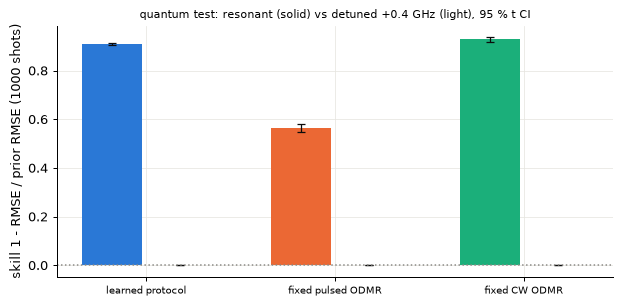
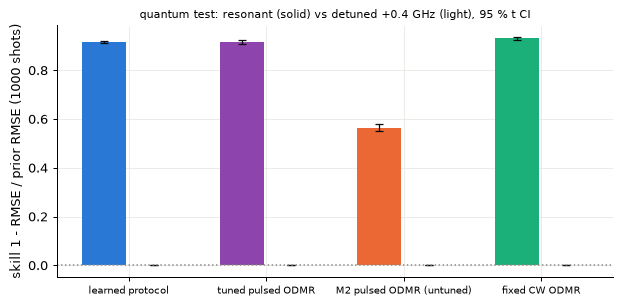
Milestone 4 report, Task 1: rerun with a tuned pulsed baseline, learned protocol started from it, equal-wall-time, equal-area and retrained timing probes; interpretation rewritten (learning ties the tuned pulse at 1000 shots)
Claude-Session: https://claude.ai/code/session_011moV3EPNNknRWZQ686AChh

diff --git a/docs/results/m4-learned-sensor.md b/docs/results/m4-learned-sensor.md
@@ -1,93 +1,148 @@
 # Milestone 4, Task 1 re-run: a learned sensor protocol for the hidden field
 
-**Task 1 with a learned sensor protocol**: the encoder chooses the pulses of every measurement point, trained end to end with a CNN decoder through the differentiable surrogate, and compared with milestone 2's fixed CW and pulsed ODMR on the same frequency grid, shots and decoder recipe. Simulation only; no claim of quantum advantage: a gap only says that the performance depends on driving the spin resonance.
+**Task 1 with a learned sensor protocol**: the encoder chooses the pulses of every measurement point, trained end to end with a CNN decoder through the differentiable surrogate, and compared with fixed protocols on the same frequency grid, shots and decoder recipe: a pulsed ODMR sweep whose pulse is tuned for this grid, milestone 2's untuned pulsed ODMR and fixed CW ODMR. Simulation only; no claim of quantum advantage: a gap only says that the performance depends on driving the spin resonance.
 
 ## Result
 
 RMS error of the folded field (|B| 0.5-3 mT, any direction) with 40 points, mean over 5 seeds [95 % Student-t CI]:
 
-| protocol | resonant, 1000 shots/point | detuned | gap (detuned - resonant) | resonant, 5000 shots/point (= M2's total shots) |
-| --- | --- | --- | --- | --- |
-| learned protocol | 75.7 [71.8, 79.6] | 833 [822, 844] | 758 [744, 771] | 47.1 [45.1, 49.1] |
-| fixed pulsed ODMR | 364 [348, 379] | 834 [823, 844] | 470 [459, 481] | 219 [203, 235] |
-| fixed CW ODMR | 60.1 [50.8, 69.5] | 834 [823, 844] | 773 [767, 780] | 37.6 [32.7, 42.5] |
+| protocol | shot (ns) | resonant, 1000 shots/point | detuned | gap (detuned - resonant) | resonant, 5000 shots/point (= M2's total shots) |
+| --- | --- | --- | --- | --- | --- |
+| learned protocol | 3500 | 69.1 [66.6, 71.7] | 834 [823, 844] | 764 [752, 777] | 42 [40.1, 43.9] |
+| tuned pulsed ODMR | 3200 | 69.7 [63.2, 76.2] | 834 [823, 844] | 764 [754, 773] | 31.4 [27.5, 35.2] |
+| M2 pulsed ODMR (untuned) | 3410 | 364 [350, 378] | 834 [823, 844] | 470 [458, 482] | 219 [201, 236] |
+| fixed CW ODMR | 3000 | 57.2 [51.9, 62.5] | 833 [823, 844] | 776 [771, 782] | 37.4 [33.5, 41.2] |
 
-- Learned vs fixed pulsed (its starting point), paired difference pulsed - learned at 1000 shots: 288 [272, 304] uT; learned vs CW, CW - learned: -15.6 [-27, -4.13] uT.
+- Tuned pulse (validation sweep below): amplitude 0.6, 100 ns (nominal area 0.98 pi); milestone 2's: amplitude 0.2, 310 ns.
+- Paired differences at 1000 shots/point (positive = the second is better): tuned - learned 0.536 [-8.53, 9.61] uT; CW - learned -12 [-18.8, -5.15] uT; CW - tuned -12.5 [-19.3, -5.76] uT; untuned - tuned 294 [281, 307] uT. At 5000 shots: tuned - learned -10.6 [-15.4, -5.87] uT; CW - learned -4.63 [-9.25, -0.0188] uT.
 - Context: milestone 2's CNN on its 200-point sweeps (1 MHz steps, 6000 training steps) reached 11.9 uT (CW) and 26.4 uT (pulsed) at 1000 shots per point; at equal total shots (5000 per point here) compare with the last column.
-- **Quantum test**: with every MW frequency shifted by 400 MHz (no line within 217 MHz) every protocol falls to the prior; the gaps are learned significant, pulsed significant, cw significant.
+- **Quantum test**: with every MW frequency shifted by 400 MHz (no line within 216 MHz) every protocol falls to the prior; the gaps are learned significant, tuned significant, pulsed significant, cw significant.
 - Timing: the learned strategy uses microsecond-scale (Rabi-scale) timing: **yes** (details below).
 
 ## Interpretation
 
-- **The encoder redesigned the pulsed sensor.** Starting from milestone 2's pulsed ODMR (one 310 ns pi pulse at
-  amplitude 0.2 per grid point), end-to-end training cut the field error 4.8x at equal points, shots and decoder
-  recipe (75.7 vs 364 uT at 1000 shots/point). It did so with spin physics a person would also try: about twice the
-  drive amplitude (0.43 vs 0.2, power-broadened excitation that covers the 5 MHz grid spacing instead of missing
-  lines between points), two segments per point split by ~5 MHz (a composite pulse that covers two neighbouring
-  frequencies, with total areas around 2 pi), and it switched off the points the field prior never needs: segments
-  more than 88 MHz from D (beyond every line of |B| <= 3 mT) kept a median area of 0.15 pi against 0.92 pi
-  elsewhere, and half of those points are nearly off (total area < 0.3 pi).
-- **It depends on Rabi-scale timing and on coherent phases.** With the decoder frozen, shifting every duration by
-  20 ns costs +49 % in error and by 50 ns +330 %; the fixed pulsed protocol, whose pi pulse sits at the flat top of a
-  Rabi oscillation, loses only 1-3 %. Scrambling the phases of the two segments doubles the error: the two pulses
-  act coherently on lines they both reach.
-- **CW is still better at high shots, and the learned protocol wins at low shots.** At this 40-point budget the
-  fixed CW sweep reaches 60 uT at 1000 shots (learned minus CW: +15.6 [4.1, 27] uT) and stays ahead up to 10^4
-  shots. The learned protocol is better at <= 100 shots (292 vs 331 uT at 100) and equal at 300. CW integrates for
-  the whole 3 us of each shot; the pulsed family reads 600 ns per shot, which no choice of pulses can change. The
-  learned protocol only controls the MW (laser timing fixed), so it could not discover CW-like continuous readout.
-  Giving the encoder the laser too is the obvious next step.
-- **Quantum test:** detuned 400 MHz, every protocol (learned included, trained detuned) falls to the prior, 833 uT;
-  the gaps are 758 [744, 771] uT (learned), 470 (pulsed), 773 (CW).
-- The QuTiP reference reproduces the learned protocol's features to 6e-5 of the peak; noisy RMSE identical
-  (102.0 uT on two fields).
+- **Tuning the fixed pulse explains the earlier "4.8x".** Milestone 2's pi pulse (amplitude 0.2, 310 ns) was set for
+  a 1 MHz grid; on this 5 MHz grid its narrow excitation misses lines between points. A validation sweep of the
+  pulse amplitude alone (each with its nominal pi pulse) cuts the error 5.2x (364 -> 69.7 uT at 1000 shots; best
+  amplitude 0.6, 100 ns). The previous version of this report credited that gain to learning; it was a
+  one-parameter retune.
+- **Learning from the tuned pulse adds nothing at the headline and changes the trade-off across shots.** Started at
+  the tuned pulse and trained for 2000 steps, the learned protocol ties it at 1000 shots (tuned - learned 0.5
+  [-8.5, 9.6] uT), is clearly better at low shots (272 vs 414 uT at 100, 130 vs 210 at 300) and clearly worse at
+  high shots (42.0 vs 31.4 uT at 5000: tuned - learned -10.6 [-15.4, -5.9]). Phase 1 samples shots
+  log-uniformly over 10-10^4, so most of its training weight sits at the low-shot end, where it wins. What it
+  changed is spin physics a person would also try: a stronger, shorter, slightly under-pi pulse (first segment
+  median amplitude 0.93, 60 ns, 0.81 pi), per-point frequency offsets of a few MHz, the second segment left
+  essentially off (median amplitude 0.03, area 0.01 pi; the "two frequencies" fraction below counts it as on), and
+  points beyond every line of |B| <= 3 mT turned down (median 0.30 pi per point more than 88 MHz from D vs 0.84 pi
+  elsewhere). Stronger drive broadens the excitation, which helps coverage at few shots and blurs line positions
+  at many.
+- **CW vs pulsed.** At 1000 shots per point fixed CW is best (57.2 uT; CW - learned -12.0 [-18.8, -5.2], CW -
+  tuned -12.5 [-19.3, -5.8]). At 5000 shots the tuned pulse beats CW (31.4 vs 37.4 uT), and it still does at equal
+  wall time per point (30.5 vs 36.4 uT at 17.5 ms; CW's 3000 ns shots are 6-14 % shorter than the pulsed and learned
+  shots, which the equal-time table corrects for). So neither family wins everywhere; the earlier claim that no
+  choice of pulses can catch CW was wrong. The learned protocol only controls the MW (laser timing fixed).
+- **Timing: it relies on pulse area (the Rabi rotation angle), like the tuned pulse.** Shifting every duration by
+  50 ns raises the learned error 12.6-fold with the CNN frozen and 6.4-fold with a CNN retrained on the shifted
+  protocol; the tuned pulse loses less (5.2-fold frozen, 3.3-fold retrained) because its pulse is longer relative to
+  the shift. Making the same area change through the amplitude, durations kept, costs as much or more (learned +12.8
+  vs +11.6 at +-50 ns), so these probes measure reliance on pulse area on the Rabi scale, not on timing as such.
+  With its second segment off, the learned protocol no longer uses coherent phases between segments (scrambling
+  them costs nothing).
+- **Quantum test:** detuned 400 MHz, every protocol (learned included, trained detuned) falls to the prior, ~834
+  uT; gaps 764 [752, 777] uT (learned), 764 [754, 773] (tuned), 470 (untuned), 776 (CW).
+- The QuTiP reference reproduces the learned protocol's features to 6e-5 of the peak; noisy RMSE identical (70.7
+  uT on two fields).
+
+## Equal wall time per point
+
+The protocols' shots differ in length (column `shot (ns)` above; CW counts photons for its whole shot, the pulsed and learned protocols for their 600 ns readout). RMSE at equal wall time per point, the learned protocol's shots converted by shot length, resonant:
+
+| wall time per point (us) | learned protocol | tuned pulsed ODMR | M2 pulsed ODMR (untuned) | fixed CW ODMR |
+| --- | --- | --- | --- | --- |
+| 3500 | 69.1 [66.6, 71.7] (1000 shots) | 67 [63.3, 70.8] (1094 shots) | 354 [338, 370] (1026 shots) | 55 [49.8, 60.3] (1167 shots) |
+| 17500 | 42 [40.1, 43.9] (5000 shots) | 30.5 [28.6, 32.3] (5469 shots) | 217 [208, 227] (5132 shots) | 36.4 [33.3, 39.4] (5833 shots) |
+
+## Tuning the fixed pulsed baseline
+
+Seed 0, its train / validation fields (test fields unseen), the CNN recipe below, validation RMSE at 1000 shots/point. Stage 1: amplitudes with their nominal pi pulse; stage 2: pulse areas at the best amplitude.
+
+| stage | amplitude | pulse (ns) | nominal area (pi) | validation RMSE (uT) |
+| --- | --- | --- | --- | --- |
+| amplitude | 0.2 | 310 | 1.01 | 372.4 |
+| amplitude | 0.3 | 200 | 0.98 | 158.0 |
+| amplitude | 0.4 | 150 | 0.98 | 82.3 |
+| amplitude | 0.5 | 120 | 0.98 | 64.1 |
+| amplitude | 0.6 | 100 | 0.98 | 58.1 |
+| amplitude | 0.8 | 80 | 1.05 | 64.8 |
+| amplitude | 1 | 60 | 0.98 | 73.6 |
+| area | 0.6 | 60 | 0.59 | 110.2 |
+| area | 0.6 | 80 | 0.78 | 68.2 |
+| area | 0.6 | 120 | 1.18 | 93.8 |
+| area | 0.6 | 150 | 1.47 | 268.8 |
 
 ## Protocols and training
 
-- Grid: 40 points, 5 MHz apart over 2.77-2.97 GHz. Every point: init laser 1500 ns, dark 1000 ns, MW, readout 600 ns; features: readout counts in 100 ns windows (6 per point; the fixed pulsed protocol's 10 ns bins summed into the same windows); CW: one steady-state count per 3000 ns shot.
-- Learned protocol: per point 2 segments in 200 ns slots (amplitude 0-1, phase, frequency within +-7.5 MHz of the point's grid frequency, duration 0-200 ns on the grid); initialised at the fixed pulsed protocol (amplitude 0.2, 310.0 ns). Phase 1: 1000 Adam steps, 16 fresh fields of one nuisance draw per step, Gaussian shot noise (shots log-uniform [10, 10000]), 8 uniform quadrature nodes. Phase 2 and the fixed protocols: banks with milestone 2's numerics (32 uniform nodes, spacing 2.0), 3000 / 512 / 1000 fields per seed, CNN 2500 steps with Poisson noise at shots 10-10000.
-- Wall time: phase 1 81 min, banks 35 min, CNNs 33 min, timing probes 6.1 min.
+- Grid: 40 points, 5 MHz apart over 2.77-2.97 GHz. Every point: init laser 1500 ns, dark 1000 ns, MW, readout 600 ns; features: readout counts in 100 ns windows (6 per point; the fixed pulsed protocols' 10 ns bins summed into the same windows); CW: one steady-state count per 3000 ns shot.
+- Learned protocol: per point 2 segments in 200 ns slots (amplitude 0-1, phase, frequency within +-7.5 MHz of the point's grid frequency, duration 0-200 ns on the grid); initialised at the tuned pulse (amplitude 0.6, 100 ns; unused segments at amplitude 0.05, 20.0 ns). Phase 1: 2000 Adam steps (lr 0.03, cosine), 16 fresh fields of one nuisance draw per step, Gaussian shot noise (shots log-uniform [10, 10000]), 8 uniform quadrature nodes. Phase 2 and the fixed protocols: banks with milestone 2's numerics (32 uniform nodes, spacing 2.0), 3000 / 512 / 1000 fields per seed, CNN 2500 steps with Poisson noise at shots 10-10000.
+- Wall time: tuning 21 min, phase 1 185 min, banks 55 min, CNNs 107 min, timing probes 62.9 min.
 
 ## Error vs shots
 
-| shots/point | learned, resonant | pulsed, resonant | cw, resonant | prior |
-| --- | --- | --- | --- | --- |
-| 30 | 515 [499, 531] | 788 [777, 800] | 569 [560, 578] | 834 |
-| 100 | 292 [280, 303] | 712 [704, 720] | 331 [319, 342] | 834 |
-| 300 | 147 [141, 153] | 556 [539, 572] | 141 [129, 154] | 834 |
-| 1000 | 75.7 [71.8, 79.6] | 364 [348, 379] | 60.1 [50.8, 69.5] | 834 |
-| 3000 | 52.6 [50.3, 54.9] | 244 [229, 258] | 39.6 [37, 42.2] | 834 |
-| 5000 | 47.1 [45.1, 49.1] | 219 [203, 235] | 37.6 [32.7, 42.5] | 834 |
-| 10000 | 42 [39.6, 44.4] | 200 [186, 214] | 35.6 [31.3, 39.8] | 834 |
+| shots/point | learned, resonant | tuned, resonant | pulsed, resonant | cw, resonant | prior |
+| --- | --- | --- | --- | --- | --- |
+| 30 | 503 [492, 514] | 625 [611, 639] | 789 [778, 800] | 570 [565, 575] | 834 |
+| 100 | 272 [256, 288] | 414 [407, 421] | 711 [706, 715] | 331 [314, 349] | 834 |
+| 300 | 130 [127, 133] | 210 [195, 225] | 553 [536, 571] | 143 [135, 152] | 834 |
+| 1000 | 69.1 [66.6, 71.7] | 69.7 [63.2, 76.2] | 364 [350, 378] | 57.2 [51.9, 62.5] | 834 |
+| 3000 | 47.3 [45.1, 49.5] | 37.1 [33.5, 40.6] | 239 [224, 253] | 39.4 [37.7, 41] | 834 |
+| 5000 | 42 [40.1, 43.9] | 31.4 [27.5, 35.2] | 219 [201, 236] | 37.4 [33.5, 41.2] | 834 |
+| 10000 | 37.1 [35.8, 38.3] | 27.7 [23.1, 32.3] | 199 [186, 212] | 34.9 [32.2, 37.6] | 834 |
 
 ## Quantum test
 
 | metric | resonant | detuned | gap (better on resonance > 0) | per seed (resonant / detuned) |
 | --- | --- | --- | --- | --- |
-| learned_rmse_ut | 75.7 [71.8, 79.6] | 833.3 [822.2, 844.4] | 757.6 [743.8, 771.4] | 79.81, 75.05, 77.79, 71.84, 74.02; 823.8, 841.4, 833.2, 843, 825 |
-| learned_skill | 0.9092 [0.9037, 0.9146] | 0.0002798 [-0.0006028, 0.001162] | 0.9089 [0.9027, 0.915] | 0.9033, 0.9108, 0.9067, 0.9148, 0.9103; 0.001493, -0.0003258, 0.000274, -4.159e-05, -8.433e-07 |
-| learned_rmse_ut_budget | 47.14 [45.14, 49.13] | 833.3 [822.2, 844.4] | 786.1 [773.2, 799.1] | 48.09, 45.99, 47.95, 44.92, 48.73; 823.8, 841.4, 833.2, 843, 825 |
-| pulsed_rmse_ut | 363.8 [348.1, 379.5] | 833.5 [822.9, 844.2] | 469.7 [458.8, 480.7] | 358.3, 365.6, 376.4, 373.6, 345.1; 825, 841.2, 833.4, 843, 825.1 |
-| pulsed_skill | 0.5636 [0.5482, 0.579] | -1.806e-05 [-0.0001521, 0.000116] | 0.5636 [0.5482, 0.5791] | 0.5658, 0.5653, 0.5483, 0.5568, 0.5817; 0.0001312, -0.0001078, 5.224e-05, -4.457e-05, -0.0001214 |
-| pulsed_rmse_ut_budget | 219.1 [203.5, 234.8] | 833.5 [822.9, 844.2] | 614.4 [603.4, 625.4] | 207.9, 217.7, 233, 231.1, 206; 825, 841.2, 833.4, 843, 825.1 |
-| cw_rmse_ut | 60.11 [50.75, 69.47] | 833.6 [822.9, 844.3] | 773.5 [767.1, 779.9] | 57.56, 70.85, 54, 64.82, 53.34; 825.1, 841.2, 833.4, 843.2, 825 |
-| cw_skill | 0.9279 [0.9175, 0.9384] | -8.309e-05 [-0.0002202, 5.398e-05] | 0.928 [0.9177, 0.9384] | 0.9302, 0.9158, 0.9352, 0.9231, 0.9353; -3.801e-05, -0.0001678, 4.812e-05, -0.0002241, -3.368e-05 |
-| cw_rmse_ut_budget | 37.6 [32.68, 42.52] | 833.6 [822.9, 844.3] | 796 [787.7, 804.3] | 36.6, 35.94, 36.68, 44.47, 34.29; 825.1, 841.2, 833.4, 843.2, 825 |
+| learned_rmse_ut | 69.14 [66.56, 71.73] | 833.6 [823, 844.2] | 764.4 [752.3, 776.5] | 71.84, 70.21, 68.92, 66.23, 68.5; 825.3, 841.4, 833.2, 843, 825 |
+| learned_skill | 0.917 [0.9133, 0.9208] | -6.064e-05 [-0.0003642, 0.0002429] | 0.9171 [0.9135, 0.9207] | 0.9129, 0.9165, 0.9173, 0.9214, 0.917; -0.0002642, -0.0003238, 0.0002877, -3.548e-07, -2.505e-06 |
+| learned_rmse_ut_budget | 41.99 [40.12, 43.85] | 833.6 [823, 844.2] | 791.6 [780.4, 802.8] | 44.48, 42, 41.56, 41.42, 40.46; 825.3, 841.4, 833.2, 843, 825 |
+| learned_rmse_ut_eqtime | 69.14 [66.56, 71.73] | 833.6 [823, 844.2] | 764.4 [752.3, 776.5] | 71.84, 70.21, 68.92, 66.23, 68.5; 825.3, 841.4, 833.2, 843, 825 |
+| tuned_rmse_ut | 69.68 [63.15, 76.2] | 833.5 [822.9, 844.2] | 763.8 [754.2, 773.5] | 64.16, 66.21, 68.84, 77.67, 71.5; 825, 841.2, 833.4, 843, 825.1 |
+| tuned_skill | 0.9164 [0.909, 0.9238] | -1.548e-05 [-0.0001548, 0.0001239] | 0.9164 [0.9091, 0.9238] | 0.9222, 0.9213, 0.9174, 0.9079, 0.9133; 0.000132, -0.0001116, 6.92e-05, -4.504e-05, -0.000122 |
+| tuned_rmse_ut_budget | 31.36 [27.5, 35.21] | 833.5 [822.9, 844.2] | 802.2 [792.8, 811.5] | 29.77, 28.92, 30.82, 36.76, 30.52; 825, 841.2, 833.4, 843, 825.1 |
+| tuned_rmse_ut_eqtime | 67.04 [63.28, 70.8] | 833.5 [822.9, 844.2] | 766.5 [755.2, 777.8] | 69.78, 63.6, 66.07, 70.62, 65.16; 825, 841.2, 833.4, 843, 825.1 |
+| pulsed_rmse_ut | 363.7 [349.6, 377.9] | 833.5 [822.9, 844.1] | 469.8 [457.9, 481.7] | 351.9, 361.4, 379.4, 370.9, 355.1; 825.1, 841.2, 833.4, 843, 825 |
+| pulsed_skill | 0.5636 [0.5491, 0.5781] | -4.37e-05 [-0.0001271, 3.97e-05] | 0.5637 [0.5491, 0.5782] | 0.5735, 0.5703, 0.5447, 0.56, 0.5695; -6.016e-05, -0.0001442, 3.71e-05, -9.797e-06, -4.15e-05 |
+| pulsed_rmse_ut_budget | 218.6 [201, 236.1] | 833.5 [822.9, 844.1] | 615 [593.8, 636.2] | 200.3, 211, 234, 216.2, 231.4; 825.1, 841.2, 833.4, 843, 825 |
+| pulsed_rmse_ut_eqtime | 354 [338.2, 369.8] | 833.5 [822.9, 844.1] | 479.6 [461.8, 497.4] | 354.7, 336.3, 358.4, 371.1, 349.4; 825.1, 841.2, 833.4, 843, 825 |
+| cw_rmse_ut | 57.17 [51.85, 62.48] | 833.5 [822.9, 844] | 776.3 [770.8, 781.8] | 53.11, 62.1, 55.83, 61.31, 53.48; 825.1, 840.9, 833.3, 843, 825 |
+| cw_skill | 0.9314 [0.9259, 0.937] | 6.291e-05 [-7.457e-05, 0.0002004] | 0.9314 [0.9258, 0.937] | 0.9356, 0.9262, 0.933, 0.9273, 0.9352; 1.223e-05, 0.0002231, 0.0001309, -4.039e-05, -1.131e-05 |
+| cw_rmse_ut_budget | 37.35 [33.48, 41.22] | 833.4 [822.9, 844] | 796.1 [789.1, 803.1] | 34.97, 38.72, 36.7, 42.02, 34.34; 825.1, 840.8, 833.3, 843, 825 |
+| cw_rmse_ut_eqtime | 55.05 [49.79, 60.31] | 833.5 [822.9, 844] | 778.4 [766.4, 790.4] | 61.42, 56.16, 51.7, 55.25, 50.72; 825.1, 840.9, 833.3, 843, 825 |
 
 ## What the protocol learned, and timing
 
-- Pulse areas at the nominal Rabi full scale (10 MHz, MW along [100]): per point (both segments) median 1.88 [1.84, 1.91] pi (the fixed protocol: 1.01 pi); median amplitude 0.43 [0.41, 0.46] (fixed: 0.2); median total MW time per point 284 [277, 291] ns (fixed: 310).
-- Fraction of points whose two segments are both on and > 0.5 MHz apart: 0.93 [0.90, 0.97]; median split 5.3 [4.6, 5.9] MHz.
-- Timing probe (frozen CNN, every MW duration shifted; resonant, first test fields, every seed), relative RMSE increase [95 % t CI]: learned +-20 ns +0.49 [+0.41, +0.58], +-50 ns +3.30 [+2.71, +3.89]; fixed pulsed +-20 ns +0.01 [+0.00, +0.01], +-50 ns +0.03 [+0.02, +0.04]. Learned phases scrambled: +1.00 [+0.77, +1.24].
-- Relies on its pulse timing (> 10 % worse at +-50 ns, CI): yes; uses coherent phases between its segments (> 10 % worse scrambled): yes; Rabi-scale areas: yes. `strategy_learns_timing` = **yes**.
+- Pulse areas at the nominal Rabi full scale (10 MHz, MW along [100]): per point (both segments) median 0.836 [0.816, 0.855] pi (its start: 0.98 pi; tuned: 0.98 pi); median amplitude 0.13 [0.06, 0.19] (start 0.60); median total MW time per point 74 [67, 81] ns (start 100).
+- Fraction of points whose two segments are both on and > 0.5 MHz apart: 0.89 [0.85, 0.94]; median split 4.0 [2.5, 5.5] MHz.
+
+Timing probes (resonant, every seed, the first test fields), relative RMSE increase at 1000 shots [95 % t CI]: every MW duration shifted (frozen CNN); the same area change made with the amplitude, durations kept (equal-area control, frozen CNN); a CNN retrained on a reduced bank of the shifted protocol (1000 train fields, relative to the same recipe unshifted):
+
+| protocol | +-20 ns, frozen | +-50 ns, frozen | equal area +-20, frozen | equal area +-50, frozen | +-50 ns, retrained | phases scrambled |
+| --- | --- | --- | --- | --- | --- | --- |
+| learned | +1.80 [+1.39, +2.21] | +11.58 [+10.39, +12.76] | +1.87 [+1.23, +2.51] | +12.78 [+11.42, +14.14] | +5.39 [+5.02, +5.77] | +0.00 [-0.00, +0.01] |
+| tuned pulsed | +0.97 [+0.64, +1.30] | +4.20 [+3.19, +5.21] | +0.77 [+0.41, +1.13] | +6.26 [+5.19, +7.33] | +2.32 [+1.76, +2.89] | |
+
+- Learned: relies on its pulse timing (> 10 % worse at +-50 ns, frozen, CI): yes; the information needs it (retrained CNN still > 10 % worse): yes; the equal-area control costs at least half as much (the probe measures pulse area, the Rabi rotation angle, rather than timing as such): yes; coherent phases between its segments (> 10 % worse scrambled): no; Rabi-scale areas: yes. `strategy_learns_timing` = **yes**.
+- Tuned pulsed: relies on its pulse timing (frozen): yes; retrained: yes; area explains it: yes.
 
 ## Reference check
 
-- The seed-0 learned protocol for 2 test fields as full PulseSequences on the QuTiP reference (bank numerics): features within 5.7e-05 of the peak; frozen CNN estimates differ by at most 0.156 uT (noiseless, 1000 shots); noisy RMSE 102.0 (reference) vs 102.0 uT (surrogate), 64 draws per field (21 s).
+- The seed-0 learned protocol for 2 test fields as full PulseSequences on the QuTiP reference (bank numerics): features within 6.1e-05 of the peak; frozen CNN estimates differ by at most 0.071 uT (noiseless, 1000 shots); noisy RMSE 70.7 (reference) vs 70.7 uT (surrogate), 64 draws per field (43 s).
 
 ## Assumptions and limits
 
-- Fewer points (40) than milestone 2's sweeps (200), and fewer CNN steps, to fit end-to-end training into the GPU budget: the absolute errors are not milestone 2's; the comparison between protocols is at equal points, shots, time per shot (within 3 %) and decoder recipe.
+- Fewer points (40) than milestone 2's sweeps (200), and fewer CNN steps, to fit end-to-end training into the GPU budget: the absolute errors are not milestone 2's; the protocols are compared at equal points, decoder recipe and shots per point (shot lengths in the table above; equal wall time in its own table).
+- The tuned baseline is tuned on one seed's validation fields with the same CNN recipe; the learned protocol starts from it. Both tunings are coarse (a handful of candidates, one phase-1 schedule).
 - The learned protocol is trained with fewer quadrature nodes than its banks use; phase 2 retrains the CNN on the bank numerics, so the reported errors are consistent with the banks.
 - Segment frequencies are tied to the grid (+-span): a frequency far from every line has no gradient.
 - Field target and symmetry as in milestone 2 (fold into the wedge Bx >= By >= Bz >= 0).
@@ -104,12 +159,12 @@ RMS error of the folded field (|B| 0.5-3 mT, any direction) with 40 points, mean
 
 ## Provenance
 
-- run id: `20261126-094940-m4-learned-sensor-e120`
-- git: `1b8b45eff7c2ba2a4744f1117ed8c86d79887a98`
+- run id: `20261126-150535-m4-learned-sensor-57bf`
+- git: `711b86cb7713b65058c46cd0347fe98d97214c07`
 - seed: 20261129
 - device: cuda NVIDIA GeForce RTX 5070 Ti
 - python 3.12.14, glowbox 0.1.0, torch 2.11.0+cu128, qutip 5.3.1, numpy 2.5.5, scipy 1.18.1, pyarrow 26.0.1
-- started 2026-11-26T09:49:41+00:00, finished 2026-11-26T12:25:34+00:00
+- started 2026-11-26T15:05:35+00:00, finished 2026-11-26T21:28:42+00:00
 
 ## Config
 
@@ -180,7 +235,7 @@ protocol_train:
   shots:
   - 10
   - 10000
-  steps: 1000
+  steps: 2000
 reference:
   n_fields: 2
   workers: 16
@@ -194,9 +249,13 @@ seeds:
 sensor:
   f_start_hz: 2770000000.0
   f_stop_hz: 2970000000.0
+  init: tuned
+  init_amp_cap: 0.95
   init_amplitude: 0.2
   init_ns: 1500
   init_pi_ns: 310.0
+  init_rest_amplitude: 0.05
+  init_rest_ns: 20.0
   layout:
     amp_hi: 1.0
     amp_lo: 0.0
@@ -212,6 +271,11 @@ sensor:
   n_points: 40
   settle_ns: 1000
 timing:
+  area_shifts_ns:
+  - -50
+  - -20
+  - 20
+  - 50
   duration_shifts_ns:
   - -100
   - -50
@@ -221,6 +285,11 @@ timing:
   - 50
   - 100
   n_fields: 200
+  retrain_n_train: 1000
+  retrain_n_val: 256
+  retrain_shifts_ns:
+  - -50
+  - 50
 train:
   batch: 256
   eval_every: 250
@@ -229,30 +298,53 @@ train:
   shots_min: 10
   steps: 2500
   weight_decay: 0.0001
+tune:
+  amplitudes:
+  - 0.2
+  - 0.3
+  - 0.4
+  - 0.5
+  - 0.6
+  - 0.8
+  - 1.0
+  area_factors:
+  - 0.6
+  - 0.8
+  - 1.25
+  - 1.5
+  seed: 0
+  shots: 1000
 ```
 
 ## Final metrics
 
 | metric | value |
 | --- | --- |
-| learned_rmse_ut_resonant | 75.7026 |
-| learned_rmse_ut_detuned | 833.276 |
-| learned_gap | 757.573 |
-| learned_gap_lo | 743.787 |
-| learned_gap_hi | 771.359 |
-| pulsed_rmse_ut_resonant | 363.788 |
-| pulsed_rmse_ut_detuned | 833.521 |
-| pulsed_gap | 469.733 |
-| pulsed_gap_lo | 458.772 |
-| pulsed_gap_hi | 480.694 |
-| cw_rmse_ut_resonant | 60.1126 |
-| cw_rmse_ut_detuned | 833.576 |
-| cw_gap | 773.463 |
-| cw_gap_lo | 767.054 |
-| cw_gap_hi | 779.872 |
-| ref_max_rel_feature_diff | 5.72963e-05 |
+| learned_rmse_ut_resonant | 69.1412 |
+| learned_rmse_ut_detuned | 833.557 |
+| learned_gap | 764.415 |
+| learned_gap_lo | 752.3 |
+| learned_gap_hi | 776.53 |
+| tuned_rmse_ut_resonant | 69.6772 |
+| tuned_rmse_ut_detuned | 833.519 |
+| tuned_gap | 763.842 |
+| tuned_gap_lo | 754.189 |
+| tuned_gap_hi | 773.495 |
+| pulsed_rmse_ut_resonant | 363.744 |
+| pulsed_rmse_ut_detuned | 833.542 |
+| pulsed_gap | 469.798 |
+| pulsed_gap_lo | 457.892 |
+| pulsed_gap_hi | 481.704 |
+| cw_rmse_ut_resonant | 57.1668 |
+| cw_rmse_ut_detuned | 833.453 |
+| cw_gap | 776.286 |
+| cw_gap_lo | 770.777 |
+| cw_gap_hi | 781.796 |
+| tuned_amplitude | 0.6 |
+| tuned_pi_ns | 100 |
+| ref_max_rel_feature_diff | 6.05027e-05 |
 | strategy_learns_timing | 1 |
 | learned_relies_on_pulse_timing | 1 |
-| no_line_margin_mhz | 216.799 |
-| phase1_seconds | 4875.46 |
-| wall_seconds | 9353.46 |
+| no_line_margin_mhz | 216.482 |
+| phase1_seconds | 11096.1 |
+| wall_seconds | 22987.4 |

diff --git a/README.md b/README.md
@@ -43,19 +43,21 @@ an MLP; mean over 5 seeds with 95 % t CIs. Learned encoder (blue) vs the same pa
   9 with the decoder frozen and by 2.7 with the decoder retrained, the same area change made with the amplitude
   costs as much, and scrambling the segment phases doubles it (coherent rotations within T2*). Learned sequences
   run on the QuTiP reference agree to 1e-5.
-- Task 1 with a learned sensor protocol (40 points; the encoder sets amplitude, phase, frequency and duration of two
-  MW segments per point, starting from milestone 2's pulsed ODMR): 75.7 [71.8, 79.6] uT at 1000 shots per point
-  against 364 [348, 379] uT for the fixed pulsed protocol and 60.1 [50.8, 69.5] uT for fixed CW on the same grid,
-  same decoder recipe. It learned stronger, frequency-split composite pulses and switched off points the field
-  prior never needs. It beats CW at <= 100 shots but not at high shots (it controls only the MW, not the laser).
-  Detuned, all fall to the prior (833 uT); it relies on its pulse timing (+330 % error at +-50 ns, frozen decoder)
-  and on coherent phases between its segments.
+- Task 1 with a learned sensor protocol (40 points, 5 MHz apart; the encoder sets amplitude, phase, frequency and
+  duration of two MW segments per point, starting from a pulsed ODMR whose pulse was tuned for this grid on
+  validation fields: amplitude 0.6, 100 ns): at 1000 shots per point 69.1 [66.6, 71.7] uT, the same as the tuned
+  pulse (69.7 [63.2, 76.2]); fixed CW 57.2 [51.9, 62.5]; milestone 2's untuned pi pulse 364. Learning helps at
+  low shots (272 vs 414 uT at 100) and hurts at high shots (42.0 vs 31.4 uT at 5000, where the tuned pulse also
+  beats CW, 37.4, including at equal wall time). It chose a stronger, shorter, slightly under-pi pulse and turned
+  down points the field prior never needs. Detuned, all fall to the prior (834 uT); like the tuned pulse it relies
+  on its pulse areas (+-50 ns: 12.6x error frozen, 6.4x retrained; the same area change by amplitude costs as
+  much).
 - Code: `glowbox/learn/encoder.py` (bounded pulse parametrisation, grid durations with straight-through gradients),
   `glowbox/sim/surrogate/runs.py` (run-length surrogate path: one propagator per pulse or readout window, exact
   duration gradients), `glowbox/learn/autoencoder.py` (Task 4), `glowbox/learn/sensor.py` (learned sensor
   protocol). Notes: [docs/notes/encoder.md](docs/notes/encoder.md).
 
-Run (RTX 5070 Ti: Task 4 ~105 min, Task 1 ~156 min; `--quick` ~10 min each on a 32-core CPU, much longer on a laptop):
+Run (RTX 5070 Ti: Task 4 ~2 h, Task 1 ~6.4 h; `--quick` ~10 min each on a 32-core CPU, much longer on a laptop):
 
     uv run python -m glowbox.experiments.m4_autoencoder --quick
     uv run python -m glowbox.experiments.m4_learned_sensor --quick
